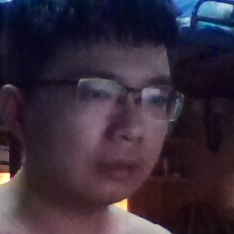
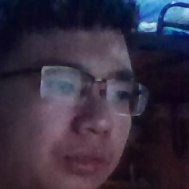
updata

diff --git a/face_match.py b/face_match.py
@@ -12,7 +12,7 @@ import requests
 API_KEY = 'vVsNOqLoB1QwwyVITZaPswHq'  
 SECRET_KEY = 'ub0n4T1oqGQ6NELSwm3kV2niN3EtYws9'
 url = 'https://aip.baidubce.com/oauth/2.0/token?grant_type=client_credentials&client_id=vVsNOqLoB1QwwyVITZaPswHq&client_secret=ub0n4T1oqGQ6NELSwm3kV2niN3EtYws9'
-
+api_url = "https://aip.baidubce.com/rest/2.0/face/v2/match"
 def CatchVideo(window_name='test', camera_idx=0):
     cv2.namedWindow(window_name)
     
@@ -40,10 +40,13 @@ def CatchVideo(window_name='test', camera_idx=0):
                 face = frame[y - 30:y + h + 30,x - 30:x + w + 30]
                 cv2.imwrite('face.jpeg', face)
                 cv2.rectangle(frame, (x - 30, y - 30), (x + w + 30, y + h + 30), color, 2)
-                
+                img2 = pic_base64('face.jpeg')
+                fof = get_socer(img1,img2)
+                fof = str(fof)
+                print(fof)
                 
         #显示图像
-        cv2.imshow(window_name, face)
+        cv2.imshow(window_name, frame)
         #time.sleep(0.05)
         
         c = cv2.waitKey(1)
@@ -64,8 +67,16 @@ def pic_base64(filePath):
     f = open(filePath, 'rb')
     
     return base64.b64encode(f.read())
+    
+def get_socer(img1,img2):
+    params = {"images":img1 + b',' + img2}
+    face_socer=requests.post(api_url,data=params)
+    return face_socer.json()['result'][0]['score']
 
 if __name__ == '__main__':
-    #print(get_token())
-    #CatchVideo()
-    test=pic_base64('face_pic/1.jpg')
+    img1 = pic_base64('face_pic/1.jpg')
+    token = get_token()
+    api_url=api_url + "?access_token=" + token
+    CatchVideo()
+    
+    
